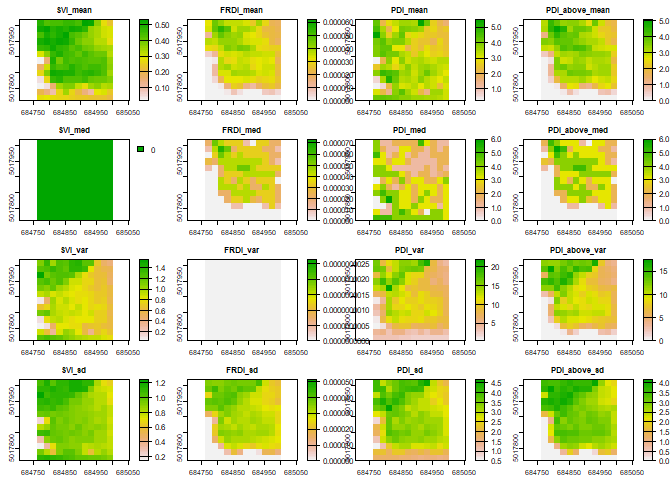
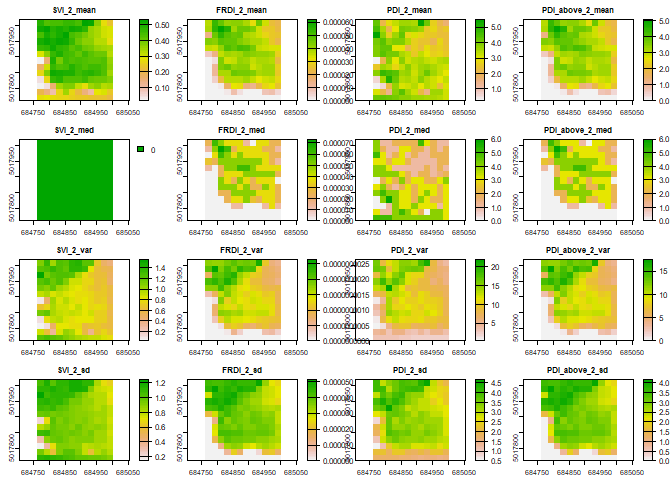
update

diff --git a/README.md b/README.md
@@ -1,7 +1,7 @@
 lidRmts
 ================
 
-#### A package to be used in conjuction with lidR (<https://github.com/Jean-Romain/lidR>) that produces area-based variables. These newer functions focus on the use of tree- and voxel-based variables. These appraoches are further outlined in Blackburn et al. 2021 (<https://cdnsciencepub.com/doi/10.1139/cjfr-2020-0506>). Below are some examples:
+#### A package to be used in conjuction with lidR (<https://github.com/Jean-Romain/lidR>) that produces area-based varaibles. Newer function focus on the use of tree- and voxel-based variables. These appraoches are further outlines in Blackburn et al. 2021 (<https://cdnsciencepub.com/doi/10.1139/cjfr-2020-0506>). Below are some examples:
 
 ## Install package
 
@@ -11,28 +11,9 @@ lidRmts
 
 ## Load in library and example data from lidR package
 
-``` r
-library(lidR)
-library(lidRmts)
-```
-
-    ## Warning: replacing previous import 'data.table::last' by 'dplyr::last' when
-    ## loading 'lidRmts'
-
-    ## Warning: replacing previous import 'data.table::first' by 'dplyr::first' when
-    ## loading 'lidRmts'
-
-    ## Warning: replacing previous import 'data.table::between' by 'dplyr::between'
-    ## when loading 'lidRmts'
-
-``` r
-LASfile <- system.file("extdata", "Megaplot.laz", package="lidR")
-las <- readLAS(LASfile)
-```
-
 ## Tree-based approach
 
-![](viz/tree.gif%20=50x)
+![](viz/tree.gif)
 
 The tree based approach summarizes individual tree based information to
 a given area (e.g., plot, pixel).
@@ -51,12 +32,7 @@ extents.
 
 ``` r
 las_tree <- ind_tree(las_tree)
-```
 
-    ## Warning: Invalid file: the header describes extra bytes attributes that are not
-    ## in the data.
-
-``` r
 ## entire las summary statistics 
 overall_t_metrics <- tree_sum(las_tree)
 knitr::kable(overall_t_metrics)
@@ -69,6 +45,7 @@ knitr::kable(overall_t_metrics)
 ``` r
 ## rasterized summary statistics 
 tree_metrics <- pixel_metrics(las_tree, tree_sum_raster(Z, npoints, ca), res = 20)
+
 plot(tree_metrics)
 ```
 
@@ -87,7 +64,7 @@ voxel metrics and then summarize them to either the entire las or a
 raster with defined spatial resolution.
 
 ``` r
-las_vox <- vox(las, res = 2)
+las_vox <- ind_vox(las, res = 2)
 
 ## entire las summary statistics 
 overall_v_metrics <- vox_sum(las_vox, 2)
@@ -100,7 +77,7 @@ knitr::kable(overall_v_metrics[c(1:4, 33)])
 
 ``` r
 ## rasterized summary statistics  
-v_metrics <- pixel_metrics(las_vox, func = vox_sum_raster(SVi, FRDi, PDi, PDi_above), res = 20)
+v_metrics <- pixel_metrics(las_vox, func = vox_sum_raster(SVi_2, FRDi_2, PDi_2, PDi_above_2, vox_res = 2), res = 20)
 plot(v_metrics)
 ```
 
